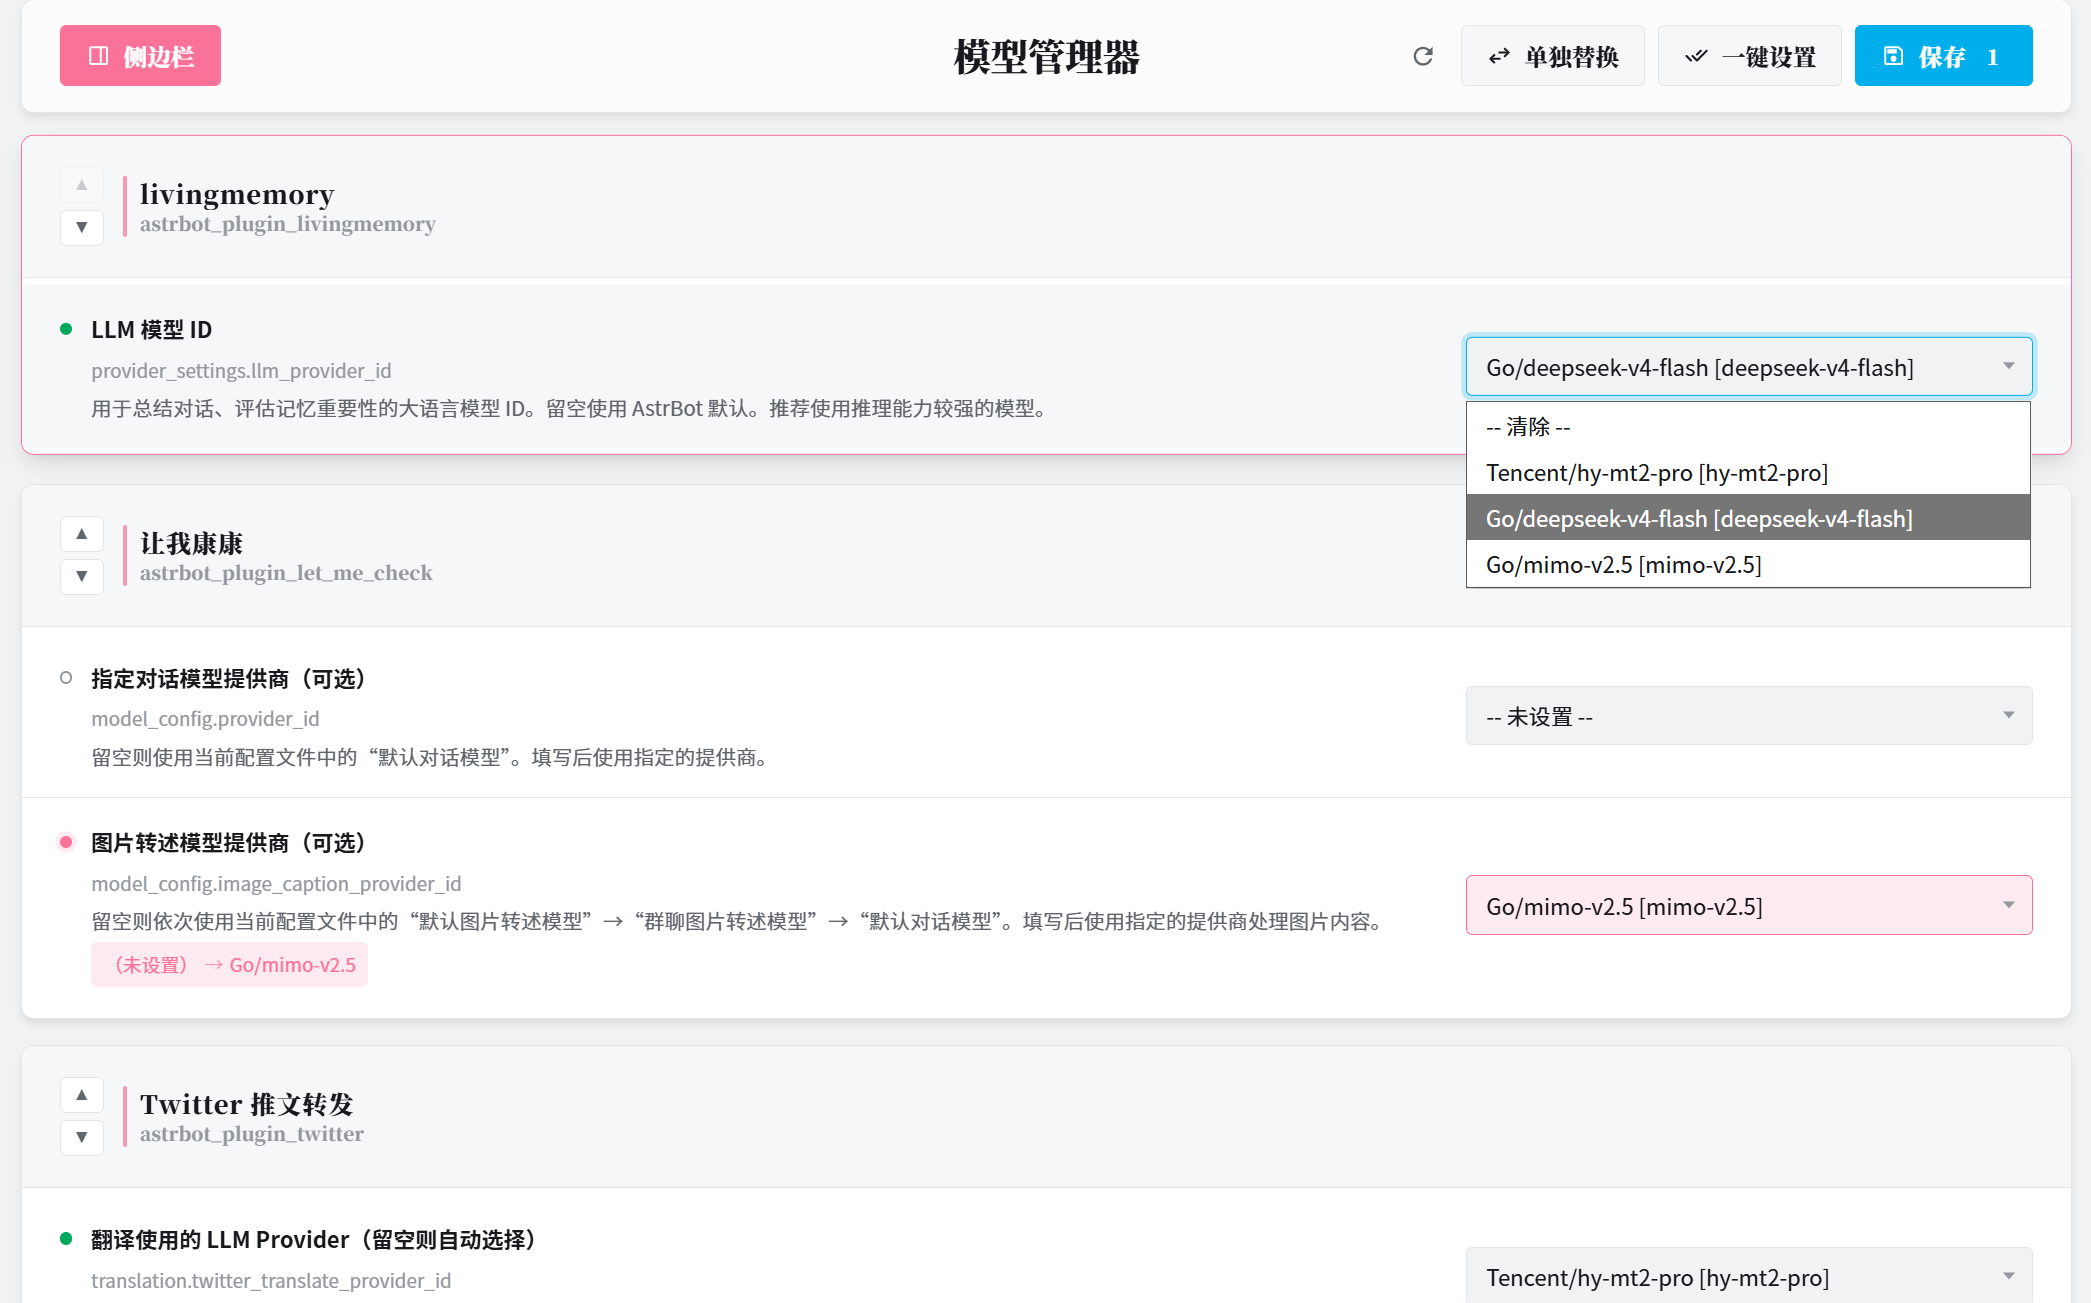
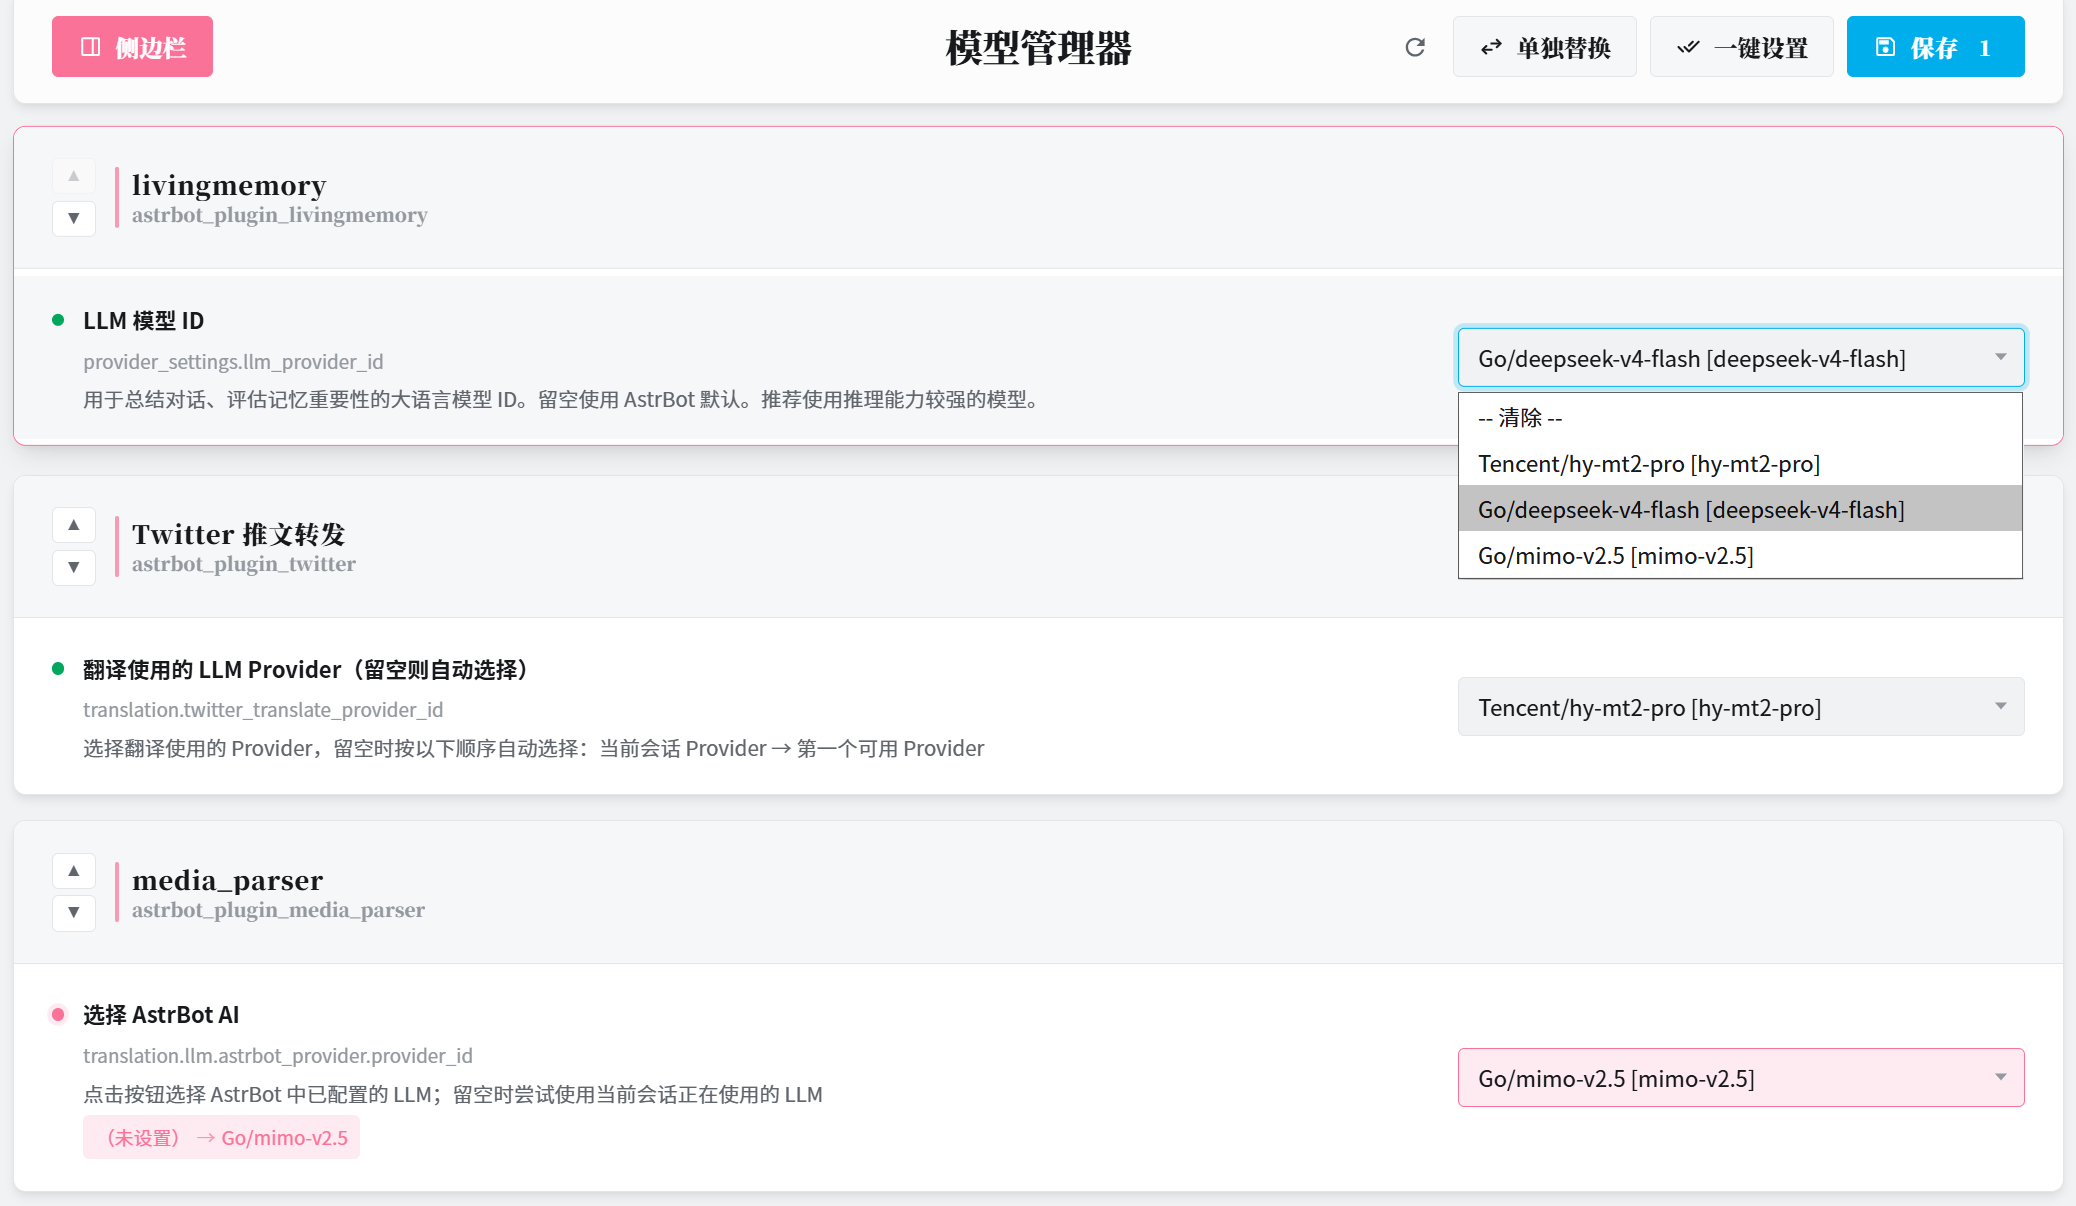
docs: move UI preview above features and refresh screenshots
Reorganize README so the light/dark preview section comes before feature list; replace screenshots with updated captures.

diff --git a/README.md b/README.md
@@ -5,7 +5,7 @@
 </p>
 
 <p align="center">
-  <img src="https://img.shields.io/badge/version-1.4.0-blue?style=flat" alt="version">
+  <img src="https://img.shields.io/badge/version-1.4.1-blue?style=flat" alt="version">
   <img src="https://img.shields.io/badge/license-AGPL--3.0-green?style=flat" alt="license">
   <img src="https://img.shields.io/badge/python-3.10+-blue?style=flat" alt="python">
   <img src="https://img.shields.io/badge/AstrBot->=4.26.0-orange?style=flat" alt="AstrBot version">
@@ -16,6 +16,12 @@
 <p align="center">
   <img src="https://count.getloli.com/@astrbot_plugin_model_manager?theme=moebooru" alt="Moe Counter">
 </p>
+
+## 界面预览
+
+| 浅色模式 | 深色模式 |
+|---|---|
+| ![浅色模式](screenshots/light-mode.png) | ![深色模式](screenshots/dark-mode.png) |
 
 ## 功能特性
 
@@ -32,12 +38,6 @@
 - **两行标题**：插件卡片与侧边栏均采用两行展示——第一行显示名称、第二行完整插件 ID，信息一目了然
 - **思源字体**：标题 / 按钮 / 插件名使用思源宋体，其余文字使用思源黑体；未安装思源字体时自动回退微软宋体 / 微软黑体
 - **居中标题**：页面标题居中显示，与两侧操作按钮精确对齐
-
-## 界面预览
-
-| 浅色模式 | 深色模式 |
-|---|---|
-| ![浅色模式](screenshots/light-mode.png) | ![深色模式](screenshots/dark-mode.png) |
 
 ## 安装
 
